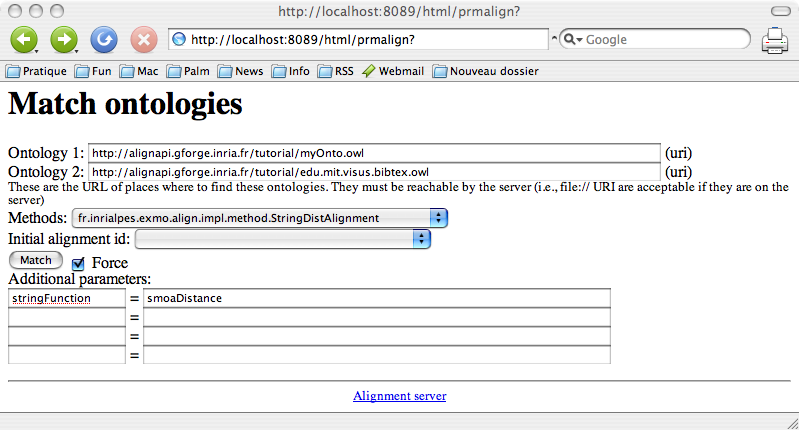
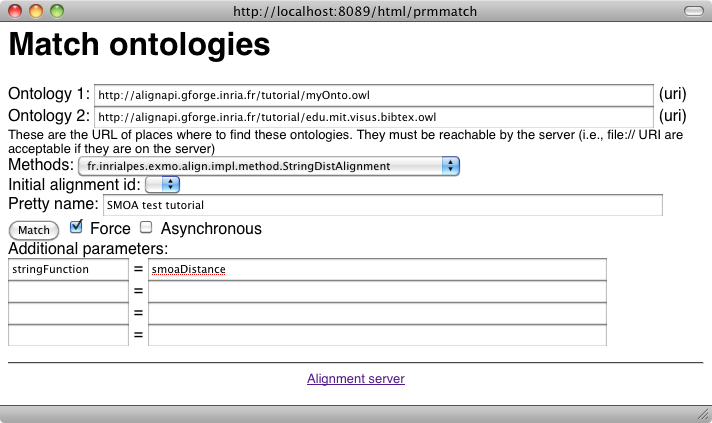
- updated server tutorial for version 4.0
git-svn-id: https://scm.gforge.inria.fr/svn/alignapi/trunk@1393 a7222439-140d-0410-8486-c7398dd066c2

diff --git a/html/tutorial/tutorial1/server.html b/html/tutorial/tutorial1/server.html
@@ -47,15 +47,55 @@ div.logic {
 Here is an illustration of the <A href="index.html">Alignment API
     tutorial</a> using the alignment server.</p>
 <small>This tutorial has been designed for the Alignment API version
-  3.0. Actual screendumps may vary since the interface has evolved
-  but the functionalities remain.</small>
+  3.0 and updated for the Alignment API 4.0. Actual screendumps may
+  vary since the interface has evolved but the functionalities remain.</small>
 	
 <h2>Launching the alignment server for the first time</h2>
 
 <p>This tutorial can be used by locally launching an Alignment server
   or by using a publicly available Alignment server. We explain here
   how to install the alignment server.</p>
-	
+<p>
+Installing the Alignment server requires a jdbc-compliant relational
+database. Here we use MySQL. Drivers for Postgres are also available
+from the release.
+</p>
+<p>
+Setting up the server requires to create a database. This is achieved
+through the following instructions:
+<div class="fragment">
+$ sudo /usr/local/mysql/bin/mysqld_safe --user=mysql &
+$ /usr/local/mysql/bin/mysqladmin -u root password <mysqlpassword>
+$ /usr/local/mysql/bin/mysqladmin -u root -h localhost password <mysqlpassword>
+$ /usr/local/mysql/bin/mysql -u root -p<mysqlpassword>
+sql> CREATE DATABASE AServDB;
+sql> GRANT ALL PRIVILEGES ON AServDB.* TO adminAServ@localhost IDENTIFIED BY 'aaa345';
+sql> quit
+</div>
+Of course, it is advised to use different user, password and database name. This can be achieved either:
+<ul>
+<li>by changing values of <tt>DBMSBASE</tt>, <tt>DBMSUSER</tt> and <tt>DBMSPASS</tt> in AlignmentServer and recompiling;</li>
+<li>by passing parameters dbmsbase, dbmsuser and dbmspass to AlignmentServer.</li>
+</ul>
+</p>
+
+<p>
+Once this done, the server can be launched through command line by:
+<div class="fragment">
+$ java -jar lib/alignsvc.jar -H
+</div>
+for a minimal HTML server, or
+<div class="fragment">
+$ java -jar lib/alignsvc.jar -Ddbmsbase=MyDB -Dwndict=../WordNet-3.0/dict -H -W -d 4
+</div>
+for a more complete server with specific database, access to wordnet set, webservices and
+debug.
+The alignment server is then available by HTTP through:
+<center>
+<a href="http://localhost:8089/html/">http://localhost:8089/html/</a>
+</center>
+</p>
+
 <h2>Connecting through the server with an HTTP client</h2>
 	
 <p>Once the server has been installed, it can be accessed using
@@ -82,7 +122,7 @@ You can browse in these menus to see what is available.</p>
 	
 <p>Your first matching task can be achieved by selecting the "Match
   ontology" button in the user menu:
-<center><img src="server/matching1.png" /></center>
+<center><img src="server/match1.png" /></center>
 As most of the tasks through the Alignment server, it provides a
 result under that form:
 <center><img src="server/result1.png" /></center>
@@ -144,9 +184,23 @@ Trimming, as most operations in the server, generate a new alignment:
 <div class="logic"><p><b>More work:</b> There is another switch (<tt>-T</tt>) in Procalign that specifies the way a threshold is applied (hard|perc|prop|best|span) the default being "hard". The curious reader can apply these and see the difference in results. How they work is explained in the Alignment <abbr>API</abbr> documentation.</p></div>
 
 <p><b>Other manipulations:</b> It is possible to invert an alignment
-  by using the </p>
+  by using the invert button of the main menu or the one provided
+  directly after results. This provides the following interface:</p>
 <center><img src="server/invert1.png" /></center>
 	
+<h2>Searching alignments</h2>
+	
+<p>The list of alignments available from the server can by obtained
+  from the main menu and gives:
+<center><img src="server/list1.png" /></center>
+It is also possible to look for alignments between specific ontologies
+through the Find button of the main menu. This present the following
+interface:
+<center><img src="server/find1.png" /></center>
+which returns the following result:
+<center><img src="server/list2.png" /></center>
+</p>
+
 <h2>Output</h2>
 	
 <p>From the server, it is possible to generate all the formats
@@ -166,18 +220,26 @@ Or in XSLT:
 <center><img src="server/format3.png" width="100%" /></center>
 </p>
 	
+<h2>Loading and storing</h2>
+	
+<p>
+It is possible to load an alignment available somewhere on the web
+or on a disk through:
+<center><img src="server/load1.png" /></center>
+which returns:
+<center><img src="server/result2.png" width="100%" /></center>
+</p>
+<p>
+An alignment can be stored definitely on the server, i.e., its
+database through the Store button of the main menu which triggers the
+following interface:
+<center><img src="server/store1.png" width="100%" /></center>
+</p>
+
 <h2>Evaluating</h2>
 	
 <p><b>This part is not yet available through the server</b></p>
 
-<h2>Embedding</h2>
-	
-<p>If you want to embed matching solutions in an applications, then
-  you should look at the <a href="index.html">genuine
-  tutorial</a>.</p>
-
-<p><b>TODO: Explain embedding of a matching system in the alignment server.</b></p>
-	
 <h2>Further exercises</h2>
 	
 <p>More info: <a href="http://alignapi.gforge.inria.fr">http://alignapi.gforge.inria.fr</a></p>
@@ -189,15 +251,11 @@ Planning:
 - Expressive alignment language (with SEKT/Fran篩s Sharffe)
 -->
 	
-<h2>Acknowledgements</h2>
-	
-<p>The format of this tutorial has been shamelessly borrowed from Sean Bechhofer's <a href="http://owl.man.ac.uk/2005/07/sssw/"><acronym>OWL</acronym> tutorial</a>.</p>	
-
 <hr />
 <small>
 <p style="text-align: center;">http://alignapi.gforge.inria.fr/tutorial//tutorial1/server.html</p>
-</small>
 <hr />
-<p>$Id$</p>
+<div>$Id$</div>
+</small>
 </body>
 </html>
